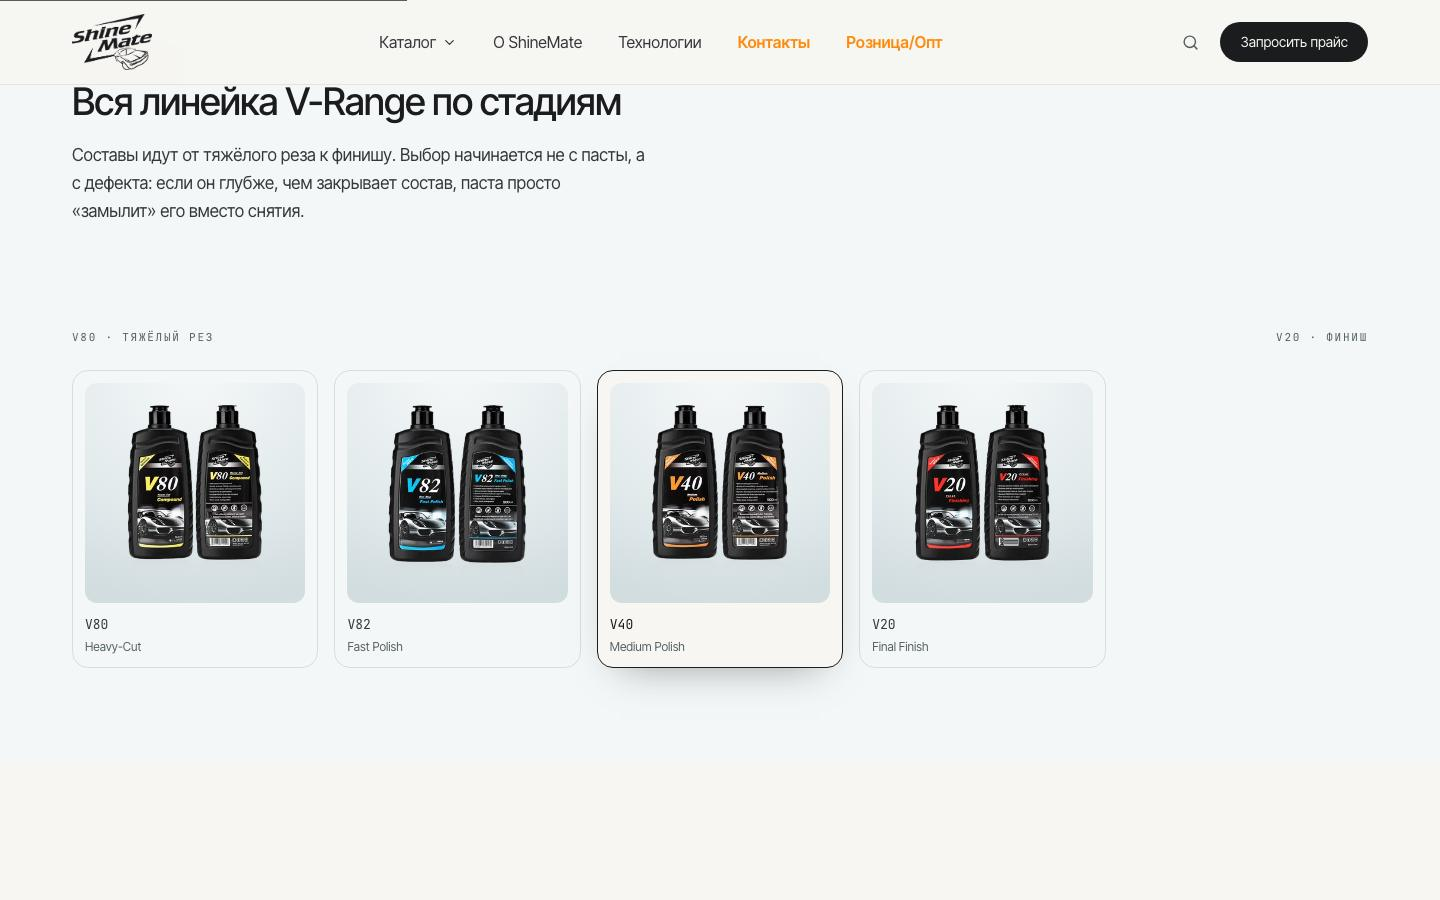
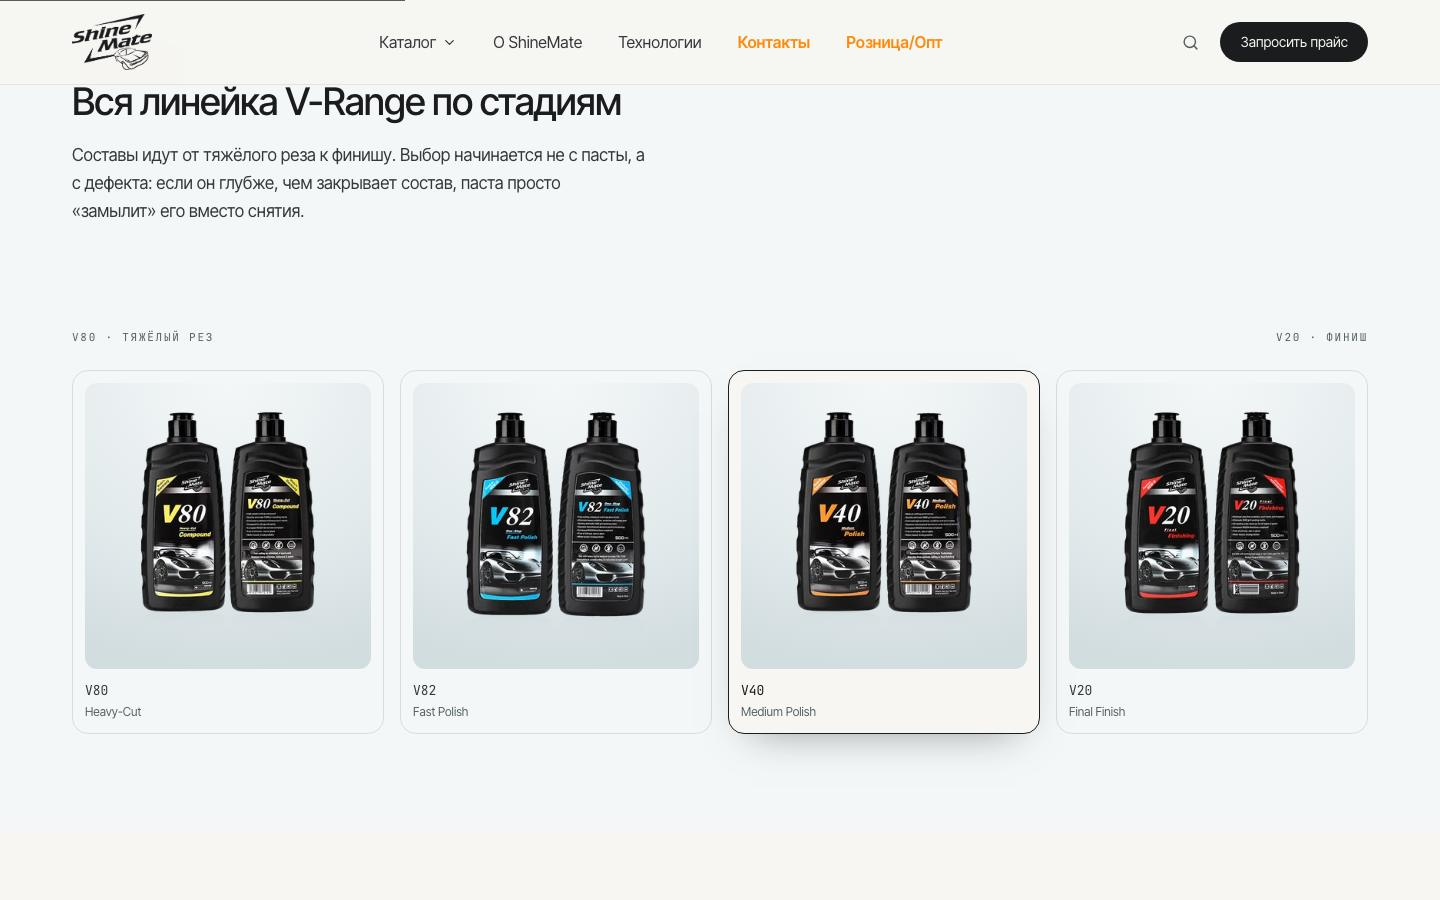
Ни одна сетка больше не оставляет пустых ячеек
Сплошной прогон 64 URL на 1440/1280/768 нашёл ещё четыре места, где
колонок было больше, чем позиций, и справа зияла пустота:

- связка «собери систему» при двух-трёх шагах (шлифование, гибкий вал)
- шкала «место в системе» при двух-трёх ступенях
- карточки совместимости при одной-трёх позициях
- «соседи по разделу», когда сосед всего один

Теперь число колонок везде считается по числу позиций.

diff --git a/src/components/catalog/ProductStorySections.tsx b/src/components/catalog/ProductStorySections.tsx
@@ -666,9 +666,21 @@ export function ScaleSection({
             {scale.caption}
           </motion.h2>
 
+          {/*
+            Шкала бывает короче четырёх шагов: у шлифовальных машинок их
+            три, у аккумуляторных DA — два. Жёсткие четыре колонки
+            оставляли справа пустые ячейки внутри общей рамки — это
+            читалось как обрезанная таблица.
+          */}
           <motion.ol
             variants={rise}
-            className="mt-12 grid gap-px overflow-hidden rounded-[1.5rem] bg-graphite/[0.1] sm:grid-cols-2 lg:grid-cols-4 xl:auto-cols-fr xl:grid-flow-col"
+            className={`mt-12 grid gap-px overflow-hidden rounded-[1.5rem] bg-graphite/[0.1] sm:grid-cols-2 xl:auto-cols-fr xl:grid-flow-col ${
+              scale.steps.length === 2
+                ? 'lg:grid-cols-2'
+                : scale.steps.length === 3
+                  ? 'lg:grid-cols-3'
+                  : 'lg:grid-cols-4'
+            }`}
           >
             {scale.steps.map((step) => (
               <li
@@ -727,9 +739,21 @@ export function SystemChainSection({ chain }: { chain: SystemChain }) {
             {chain.note}
           </motion.p>
 
+          {/*
+            Шагов в связке бывает два (шлифование заканчивается подложкой)
+            или три (точечная работа на гибком валу). В жёсткой сетке из
+            четырёх колонок справа оставалась пустая ячейка на треть
+            экрана — ряд читался как недогруженный, а не как короткая цепь.
+          */}
           <motion.ol
             variants={rise}
-            className="mt-12 grid gap-4 sm:grid-cols-2 lg:grid-cols-4 lg:gap-5"
+            className={`mt-12 grid gap-4 sm:grid-cols-2 lg:gap-5 ${
+              chain.steps.length === 2
+                ? 'lg:grid-cols-2'
+                : chain.steps.length === 3
+                  ? 'lg:grid-cols-3'
+                  : 'lg:grid-cols-4'
+            }`}
           >
             {chain.steps.map((step) => {
               const thumb = step.product.image.replace('.webp', '-thumb.webp')
@@ -965,7 +989,19 @@ export function CompatSection({ groups }: { groups: CompatGroup[] }) {
                 <h3 className="text-[1.25rem] tracking-tight">{group.title}</h3>
                 <p className="text-[0.875rem] text-slate">{group.note}</p>
               </div>
-              <div className="mt-6 grid gap-4 sm:grid-cols-2 lg:grid-cols-4 lg:gap-5">
+              {/* Та же логика: группа из двух-трёх позиций не должна
+                  растягиваться на четыре колонки с пустотой справа. */}
+              <div
+                className={`mt-6 grid gap-4 lg:gap-5 ${
+                  group.items.length === 1
+                    ? 'max-w-sm grid-cols-1'
+                    : group.items.length === 2
+                      ? 'sm:grid-cols-2'
+                      : group.items.length === 3
+                        ? 'sm:grid-cols-2 lg:grid-cols-3'
+                        : 'sm:grid-cols-2 lg:grid-cols-4'
+                }`}
+              >
                 {group.items.map((item) => (
                   <CompatCard key={item.slug} item={item} />
                 ))}

diff --git a/src/components/catalog/ProductPage.tsx b/src/components/catalog/ProductPage.tsx
@@ -601,7 +601,13 @@ export function ProductPage({ product }: Props) {
               <p className="eyebrow">Соседи по разделу</p>
               <h2 className="h2 mt-6 max-w-[20ch]">Похожие модели этого раздела</h2>
             </motion.div>
-            <div className="mt-12 grid gap-5 sm:grid-cols-2 lg:grid-cols-3">
+            {/* Соседей бывает двое — тогда и колонок две, а не три с
+                пустой ячейкой справа. */}
+            <div
+              className={`mt-12 grid gap-5 sm:grid-cols-2 ${
+                related.length >= 3 ? 'lg:grid-cols-3' : 'lg:grid-cols-2'
+              }`}
+            >
               {related.map((candidate) => {
                 const price = minPrice(candidate)
                 const thumb = candidate.image.replace('.webp', '-thumb.webp')
